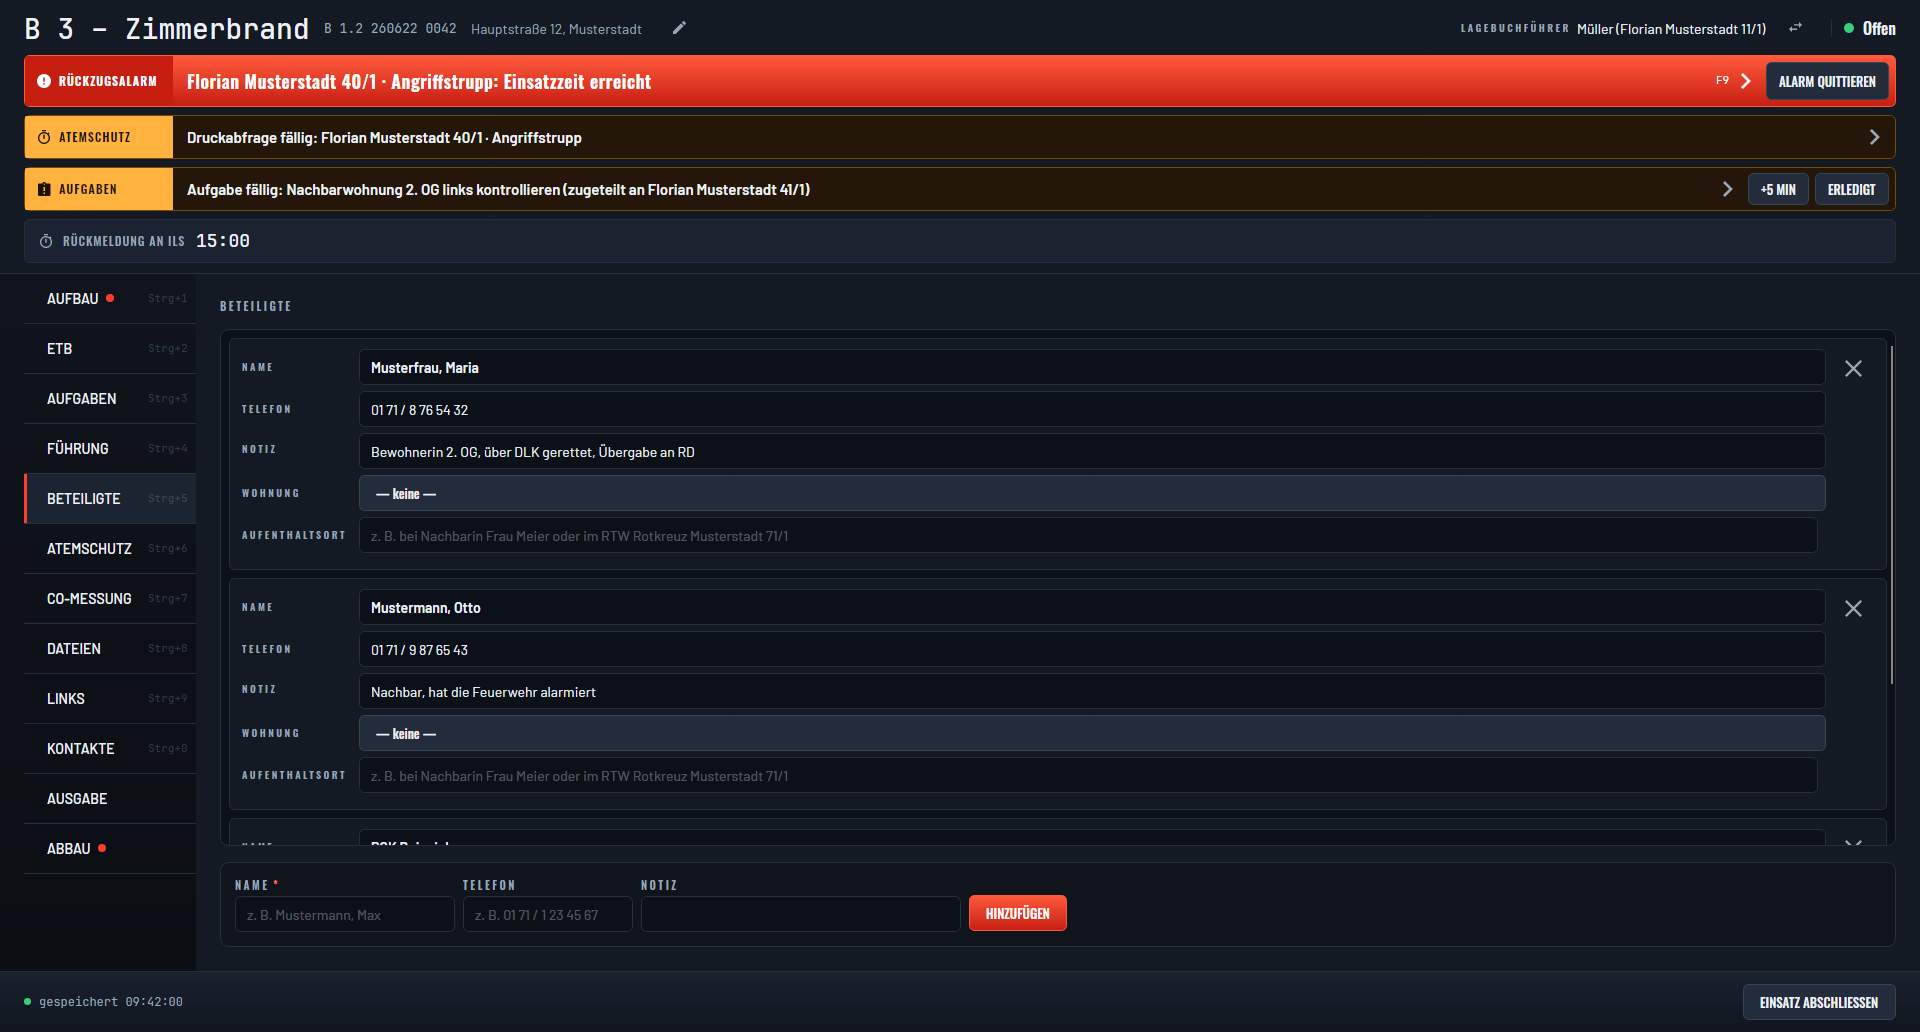
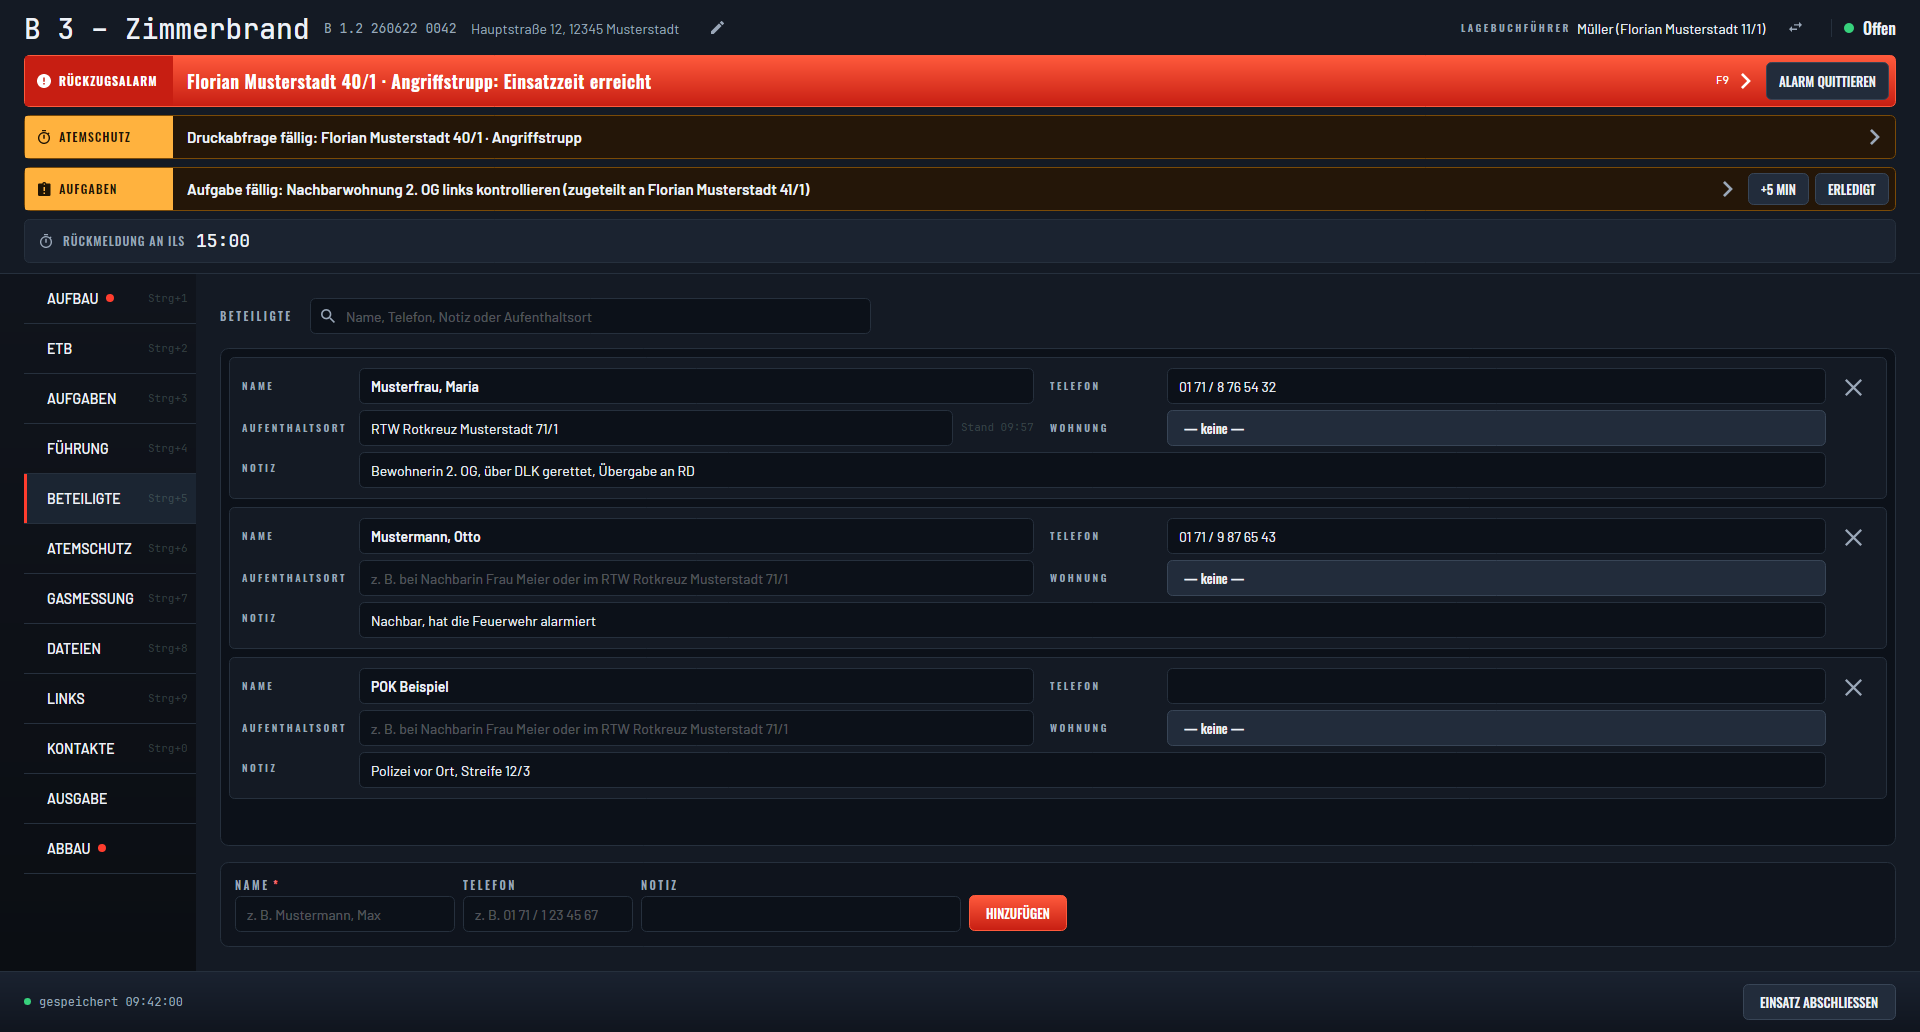
docs: render Führung, Lagekarte, Lagemeldung and Ausgabe for the screenshots (#941)
* docs: render Führung, Lagekarte, Lagemeldung and Ausgabe for the screenshots

The README screenshots and the website's Rundgang still showed the
modules of 0.8.0. The demo walk-through now also captures the views
0.10.0 adds:

- fuehrung.png: FÜHRUNG → ORGANISATION with the Einsatzleitung, two
  Abschnitte, a Bereitstellung, the Rettungsdienst, Funkgruppen and the
  units placed in them
- lagekarte.png: FÜHRUNG → LAGEKARTE on the made-up Kartenpaket the
  Lagekarte tests already use, with the Einsatzstelle, three taktische
  Zeichen and the hydrants, so no real OSM data ends up in a screenshot
- lagemeldung.png: ETB → LAGEMELDUNG with a draft and the
  Buchstabier-Helfer
- ausgabe.png: three Geräte handed out, one of them returned

The existing frames pick up what changed since: the address is split
into Straße, Hausnummer, PLZ and Ort, the units carry a Fahrzeugtyp and
sit in an Abschnitt, the EL holds the Leiter slot, and Maria Musterfrau
has an Aufenthaltsort. The demo GIF gets the four new frames and calls
the CO-Messprotokoll the Gasmessprotokoll; the README alt text follows.

WorkspaceRenderHelper.SelectTab now also finds LAGEKARTE under FÜHRUNG.

* test: assert the Lagekarte screenshot loaded all fixture water points

A failed pack read sets WaterPointsError and an empty list, which the
NotNull check let through to a screenshot without hydrants.

---------

diff --git a/tests/LageBuch.Acceptance.Tests/DemoFlowRenderTests.cs b/tests/LageBuch.Acceptance.Tests/DemoFlowRenderTests.cs
@@ -5,10 +5,12 @@ using Avalonia.Threading;
 using LageBuch.App.Shared.Views;
 using LageBuch.AppLogic;
 using LageBuch.AppLogic.Services;
+using LageBuch.AppLogic.Services.Map;
 using LageBuch.AppLogic.ViewModels;
 using LageBuch.Domain;
 using LageBuch.Domain.CoMeasurement;
 using LageBuch.Domain.Etb;
+using LageBuch.Domain.Leadership;
 using LageBuch.Domain.Tasks;
 using LageBuch.Domain.ValueObjects;
 using LageBuch.Persistence.MasterData;
@@ -22,12 +24,22 @@ namespace LageBuch.Acceptance.Tests;
 // It doubles as an end-to-end smoke test of the workspace: every module is populated through the
 // session API and must render the state it was given, and both overlay dialogs must open and
 // close from the workspace commands.
-public class DemoFlowRenderTests
+public sealed class DemoFlowRenderTests : IDisposable
 {
     private const string Elw = "Florian Musterstadt 11/1";
     private const string Lf = "Florian Musterstadt 40/1";
     private const string Lf2 = "Florian Musterstadt 41/1";
     private const string Dlk = "Florian Musterstadt 30/1";
+    private const string Musterdorf = "Florian Musterdorf 42/1";
+
+    private readonly string _dir = Directory.CreateTempSubdirectory("lagebuch-demo-").FullName;
+    private readonly HttpClient _http = new();
+
+    public void Dispose()
+    {
+        _http.Dispose();
+        Directory.Delete(_dir, recursive: true);
+    }
 
     private sealed class DemoRecent : IRecentFilesStore
     {
@@ -117,6 +129,19 @@ public class DemoFlowRenderTests
     private static void SelectTab(Window window, string header) =>
         WorkspaceRenderHelper.SelectTab(window, header);
 
+    private static void SelectModuleTab(Window window, string railHeader, string tabHeader) =>
+        WorkspaceRenderHelper.SelectModuleTab(window, railHeader, tabHeader);
+
+    private static Guid AddNode(
+        LocalIncidentSession session, CommandNodeKind kind, string name, string? auftrag, Funkgruppen? funkgruppen = null)
+    {
+        session.AddCommandNode(kind, name, auftrag: auftrag, funkgruppen: funkgruppen);
+        return session.Incident.CommandNodes[^1].Id;
+    }
+
+    private static Guid Unit(LocalIncidentSession session, string callSign) =>
+        session.Incident.Forces.Single(f => f.CallSign == callSign).Id;
+
     [AvaloniaFact]
     public void Home_screen_lists_recent_incidents()
     {
@@ -168,8 +193,13 @@ public class DemoFlowRenderTests
                 t.Id, t.Title, t.Items.Select(i => (i.Text, i.IsMandatory)).ToList())).ToList(),
             new IncidentNumber("B 1.2 260622 0042"),
             keyword: "B 3 – Zimmerbrand");
-        session.SetAddress("Hauptstraße 12", "Musterstadt");
+        session.SetAddress("Hauptstraße", null, "12", "12345", "Musterstadt");
         var ticker = new ManualTicker();
+
+        // The made-up Kartenpaket the Lagekarte tests use, so the Lagekarte frame shows a map
+        // without any real OSM data in it.
+        var regions = Path.Join(_dir, "regions");
+        FictionalRegionPack.Install(regions);
         var vm = new IncidentWorkspaceViewModel(
             session,
             clock,
@@ -177,7 +207,8 @@ public class DemoFlowRenderTests
             md,
             new FakeDialogs(),
             new NoopAlarmService(),
-            new NoopIncidentHostController());
+            new NoopIncidentHostController(),
+            mapPacks: new RegionPackLibrary(_http, regions));
         var window = new Window { Content = new IncidentWorkspaceView { DataContext = vm }, Width = RenderWidth, Height = RenderHeight };
         window.Show();
         Dispatcher.UIThread.RunJobs();
@@ -204,18 +235,18 @@ public class DemoFlowRenderTests
         // 3) ETB: the first minutes of the incident.
         session.AddJournalEntry(EtbDirection.Incoming, "Alarmierung B 3 Zimmerbrand, Hauptstraße 12, Rauch aus dem 2. OG, Personen vermutlich noch im Gebäude", "ILS", Elw);
         clock.Now = clock.Now.AddMinutes(4);
-        session.AssignRole("EL", "Mustermann, Max", callSign: Elw, from: clock.Now, phone: AnonymizedExampleData.PhoneNumber);
+        session.AssignRole("EL", "Mustermann, Max", callSign: Elw, from: clock.Now, phone: AnonymizedExampleData.PhoneNumber, slot: RoleSlot.Leiter);
         session.AssignRole("AS-Überwachung", "Wagner, Tobias", from: clock.Now);
         clock.Now = clock.Now.AddMinutes(2);
-        session.AddForceUnit("FF Musterstadt", 9, Lf, "Im Einsatz", "Innenangriff", scbaCount: 4, officerCount: 1);
-        session.AddForceUnit("FF Musterstadt", 9, Lf2, "Im Einsatz", "Wasserversorgung", scbaCount: 2, officerCount: 1);
-        session.AddForceUnit("FF Musterstadt", 3, Dlk, "Im Einsatz", "Menschenrettung über DLK", scbaCount: 1, officerCount: 1);
+        session.AddForceUnit("FF Musterstadt", 9, Lf, "Im Einsatz", "Innenangriff", scbaCount: 4, officerCount: 1, vehicleType: "HLF");
+        session.AddForceUnit("FF Musterstadt", 9, Lf2, "Im Einsatz", "Wasserversorgung", scbaCount: 2, officerCount: 1, vehicleType: "LF");
+        session.AddForceUnit("FF Musterstadt", 3, Dlk, "Im Einsatz", "Menschenrettung über DLK", scbaCount: 1, officerCount: 1, vehicleType: "DLK");
         session.AddJournalEntry(EtbDirection.Outgoing, "Lagemeldung: Zimmerbrand im 2. OG, Menschenrettung über DLK eingeleitet, Innenangriff mit 1 Trupp", Elw, "ILS");
         clock.Now = clock.Now.AddMinutes(3);
         session.AddJournalEntry(EtbDirection.Incoming, "Person aus dem 2. OG über DLK gerettet, Übergabe an RD", Dlk, Elw);
         session.AddJournalEntry(EtbDirection.Outgoing, "Nachforderung: 1 LF zur Ablösung, RD zur Absicherung", Elw, "ILS");
         clock.Now = clock.Now.AddMinutes(2);
-        session.AddForceUnit("FF Musterdorf", 9, "Florian Musterdorf 42/1", "Auf Anfahrt", null, scbaCount: 4, officerCount: 1);
+        session.AddForceUnit("FF Musterdorf", 9, Musterdorf, "Auf Anfahrt", null, scbaCount: 4, officerCount: 1, vehicleType: "LF");
         session.AddJournalEntry(EtbDirection.Incoming, "Florian Musterdorf 42/1 alarmiert, ETA 8 Minuten", "ILS", Elw);
         ticker.Pulse();
 
@@ -223,7 +254,52 @@ public class DemoFlowRenderTests
         Assert.True(vm.Etb.Entries.Count(e => e.DirectionValue != EtbDirection.System) >= 5);
         Capture(window, "etb.png");
 
-        // 4) Kräfte: four units, one still on its way.
+        // 3b) Lagemeldung: the next report to the ILS, drafted from the Einsatz, beside the
+        //     Buchstabier-Helfer. Back to the journal afterwards, so the PDF frame shows the ETB.
+        session.AddSituationReport(
+            Elw,
+            "Hauptstraße 12",
+            "Zimmerbrand 2. OG, eine Person über DLK gerettet und an den RD übergeben",
+            "Innenangriff mit 1 Trupp unter PA, Wasserversorgung aufgebaut",
+            "FF Musterstadt, FF Musterdorf auf Anfahrt",
+            "1 RTW zur Absicherung");
+        SelectModuleTab(window, "ETB", "LAGEMELDUNG");
+        vm.SituationReports.SelectedReport = vm.SituationReports.Reports.Single();
+        vm.SituationReports.Helper.Input = "Hauptstraße";
+        Dispatcher.UIThread.RunJobs();
+        Assert.Single(session.Incident.SituationReports);
+        Capture(window, "lagemeldung.png");
+        SelectModuleTab(window, "ETB", "EINSATZTAGEBUCH");
+
+        // 4) Führung → Organisation: the Führungsorganisation as the A3 sheet draws it, with the
+        //    Einsatzleitung, two Abschnitte, a Bereitstellung, the Rettungsdienst and the units.
+        session.UpdateLeadershipPost(
+            "Hauptstraße 10", Elw, null, new Funkgruppen(["FW_MUSTER 1000"], ["301_F"]), Elw);
+        session.SetDispatchChannel("TMO FW_MUSTER");
+        var innen = AddNode(
+            session,
+            CommandNodeKind.Abschnitt,
+            "Abschnitt 1 Innenangriff",
+            "Brandbekämpfung 2. OG, Menschenrettung",
+            new Funkgruppen(["FW_MUSTER 1000"], ["301_F"]));
+        var wasser = AddNode(
+            session,
+            CommandNodeKind.Abschnitt,
+            "Abschnitt 2 Wasserversorgung",
+            "Wasserversorgung vom Hydranten Hauptstraße",
+            new Funkgruppen(["FW_MUSTER 1000"], null));
+        var bereitstellung = AddNode(session, CommandNodeKind.Bereitstellung, "Bereitstellung Marktplatz", "Nachrückende Kräfte sammeln");
+        AddNode(session, CommandNodeKind.Partner, "Rettungsdienst", null, new Funkgruppen(["RD_MUSTER 1001"], null));
+        session.MoveForceUnit(Unit(session, Lf), innen);
+        session.MoveForceUnit(Unit(session, Dlk), innen);
+        session.MoveForceUnit(Unit(session, Lf2), wasser);
+        session.MoveForceUnit(Unit(session, Musterdorf), bereitstellung);
+        session.AssignRole("EAL", "Schmidt, Anna", callSign: Lf, from: clock.Now, nodeId: innen, slot: RoleSlot.Leiter);
+        session.AssignRole("EAL", "Becker, Jonas", callSign: Lf2, from: clock.Now, nodeId: wasser, slot: RoleSlot.Leiter);
+        SelectTab(window, "ORGANISATION");
+        Capture(window, "fuehrung.png");
+
+        // 4b) Kräfte: four units, one still on its way, each in its Abschnitt.
         SelectTab(window, "KRÄFTE");
         Assert.Equal(4, vm.Forces.Forces.Count);
         Capture(window, "kraefte.png");
@@ -235,8 +311,28 @@ public class DemoFlowRenderTests
 
         // 6) Funktionen.
         SelectTab(window, "FUNKTIONEN");
-        Assert.Equal(2, vm.Roles.Roles.Count);
+        Assert.Equal(4, vm.Roles.Roles.Count);
         Capture(window, "funktionen.png");
+
+        // 6b) Lagekarte: the Einsatzstelle on the made-up Kartenpaket's Marktplatz, the units as
+        //     taktische Zeichen around it, and the hydrants close by.
+        session.SetIncidentLocation(FictionalRegionPack.Musterstrasse1);
+        session.PlaceForceUnit(Unit(session, Lf), new GeoPoint(48.1789, 11.2549));
+        session.PlaceForceUnit(Unit(session, Dlk), new GeoPoint(48.1781, 11.2549));
+        session.PlaceForceUnit(Unit(session, Lf2), new GeoPoint(48.1778, 11.2531));
+        SelectTab(window, "LAGEKARTE");
+        Assert.True(SpinWait.SpinUntil(
+            () =>
+            {
+                Dispatcher.UIThread.RunJobs();
+                return vm.Lagekarte.WaterPoints is not null || vm.Lagekarte.WaterPointsError is not null;
+            },
+            TimeSpan.FromSeconds(10)));
+        vm.Lagekarte.Map.ChangeViewCommand.Execute(new MapViewChange(FictionalRegionPack.Musterstrasse1, 17));
+        Dispatcher.UIThread.RunJobs();
+        Assert.Null(vm.Lagekarte.WaterPointsError);
+        Assert.Equal(5, vm.Lagekarte.WaterPoints?.Count);
+        Capture(window, "lagekarte.png");
 
         // 7) Atemschutz: Trupp 1 started at t0 and past its 30 minutes (Rückzugsalarm), Trupp 2
         //    started 20 minutes later and still counting down, Trupp 3 waiting. Driven through the
@@ -319,9 +415,19 @@ public class DemoFlowRenderTests
         session.AddInvolvedParty("Musterfrau, Maria", "01 71 / 8 76 54 32", "Bewohnerin 2. OG, über DLK gerettet, Übergabe an RD");
         session.AddInvolvedParty("Mustermann, Otto", "01 71 / 9 87 65 43", "Nachbar, hat die Feuerwehr alarmiert");
         session.AddInvolvedParty("POK Beispiel", null, "Polizei vor Ort, Streife 12/3");
+        session.SetInvolvedPartyWhereabouts(session.Incident.InvolvedParties[0].Id, "RTW Rotkreuz Musterstadt 71/1");
         SelectTab(window, "BETEILIGTE");
         Assert.Equal(3, session.Incident.InvolvedParties.Count);
         Capture(window, "beteiligte.png");
+
+        // 10b) Ausgabe: what was handed out at the Einsatzstelle, and to whom; one Gerät is back.
+        session.IssueItem("Mobilteil 1", "POK Beispiel", null, "Polizei, Streife 12/3", null);
+        session.IssueItem("Weste Presse", "Mustermann, Paul", "01 71 / 2 34 56 78", "Musterstädter Tagblatt", null);
+        session.IssueItem("Fernglas", "Schmidt, Anna", null, "EAL Abschnitt 1", "Dachbeobachtung");
+        session.ReturnIssuedItem(session.Incident.IssuedItems[2].Id);
+        SelectTab(window, "AUSGABE");
+        Assert.Equal(3, session.Incident.IssuedItems.Count);
+        Capture(window, "ausgabe.png");
 
         // 11) PDF export: the section picker that precedes the report.
         SelectTab(window, "ETB");

diff --git a/tests/LageBuch.Acceptance.Tests/WorkspaceRenderHelper.cs b/tests/LageBuch.Acceptance.Tests/WorkspaceRenderHelper.cs
@@ -197,7 +197,7 @@ internal static class WorkspaceRenderHelper
         SelectedTabContent(window).GetVisualDescendants().OfType<TabControl>()
             .Single(t => t.Classes.Contains("module-tabs"));
 
-    private static readonly string[] FuehrungTabs = ["ORGANISATION", "FUNKTIONEN", "KRÄFTE"];
+    private static readonly string[] FuehrungTabs = ["ORGANISATION", "FUNKTIONEN", "KRÄFTE", "LAGEKARTE"];
 
     /// <summary>The tab strip inside the FÜHRUNG rail entry; FÜHRUNG must be the open entry.</summary>
     public static TabControl LeadershipTabStrip(Window window) =>

diff --git a/README.md b/README.md
@@ -17,7 +17,7 @@
 </p>
 
 <p align="center">
-  <img src="docs/demo/einsatz-flow.gif" width="960" alt="Ein Einsatz in Lagebuch: Einsatzdaten, ETB, Kräfte, Atemschutz, Aufgaben, CO-Messung, PDF" />
+  <img src="docs/demo/einsatz-flow.gif" width="960" alt="Ein Einsatz in Lagebuch: Einsatzdaten, ETB, Lagemeldung, Führung, Lagekarte, Kräfte, Atemschutz, Aufgaben, Gasmessung, Beteiligte, Ausgabe, PDF" />
 </p>
 
 Lagebuch ist das digitale Einsatztagebuch für den Einsatzleitwagen: eine
